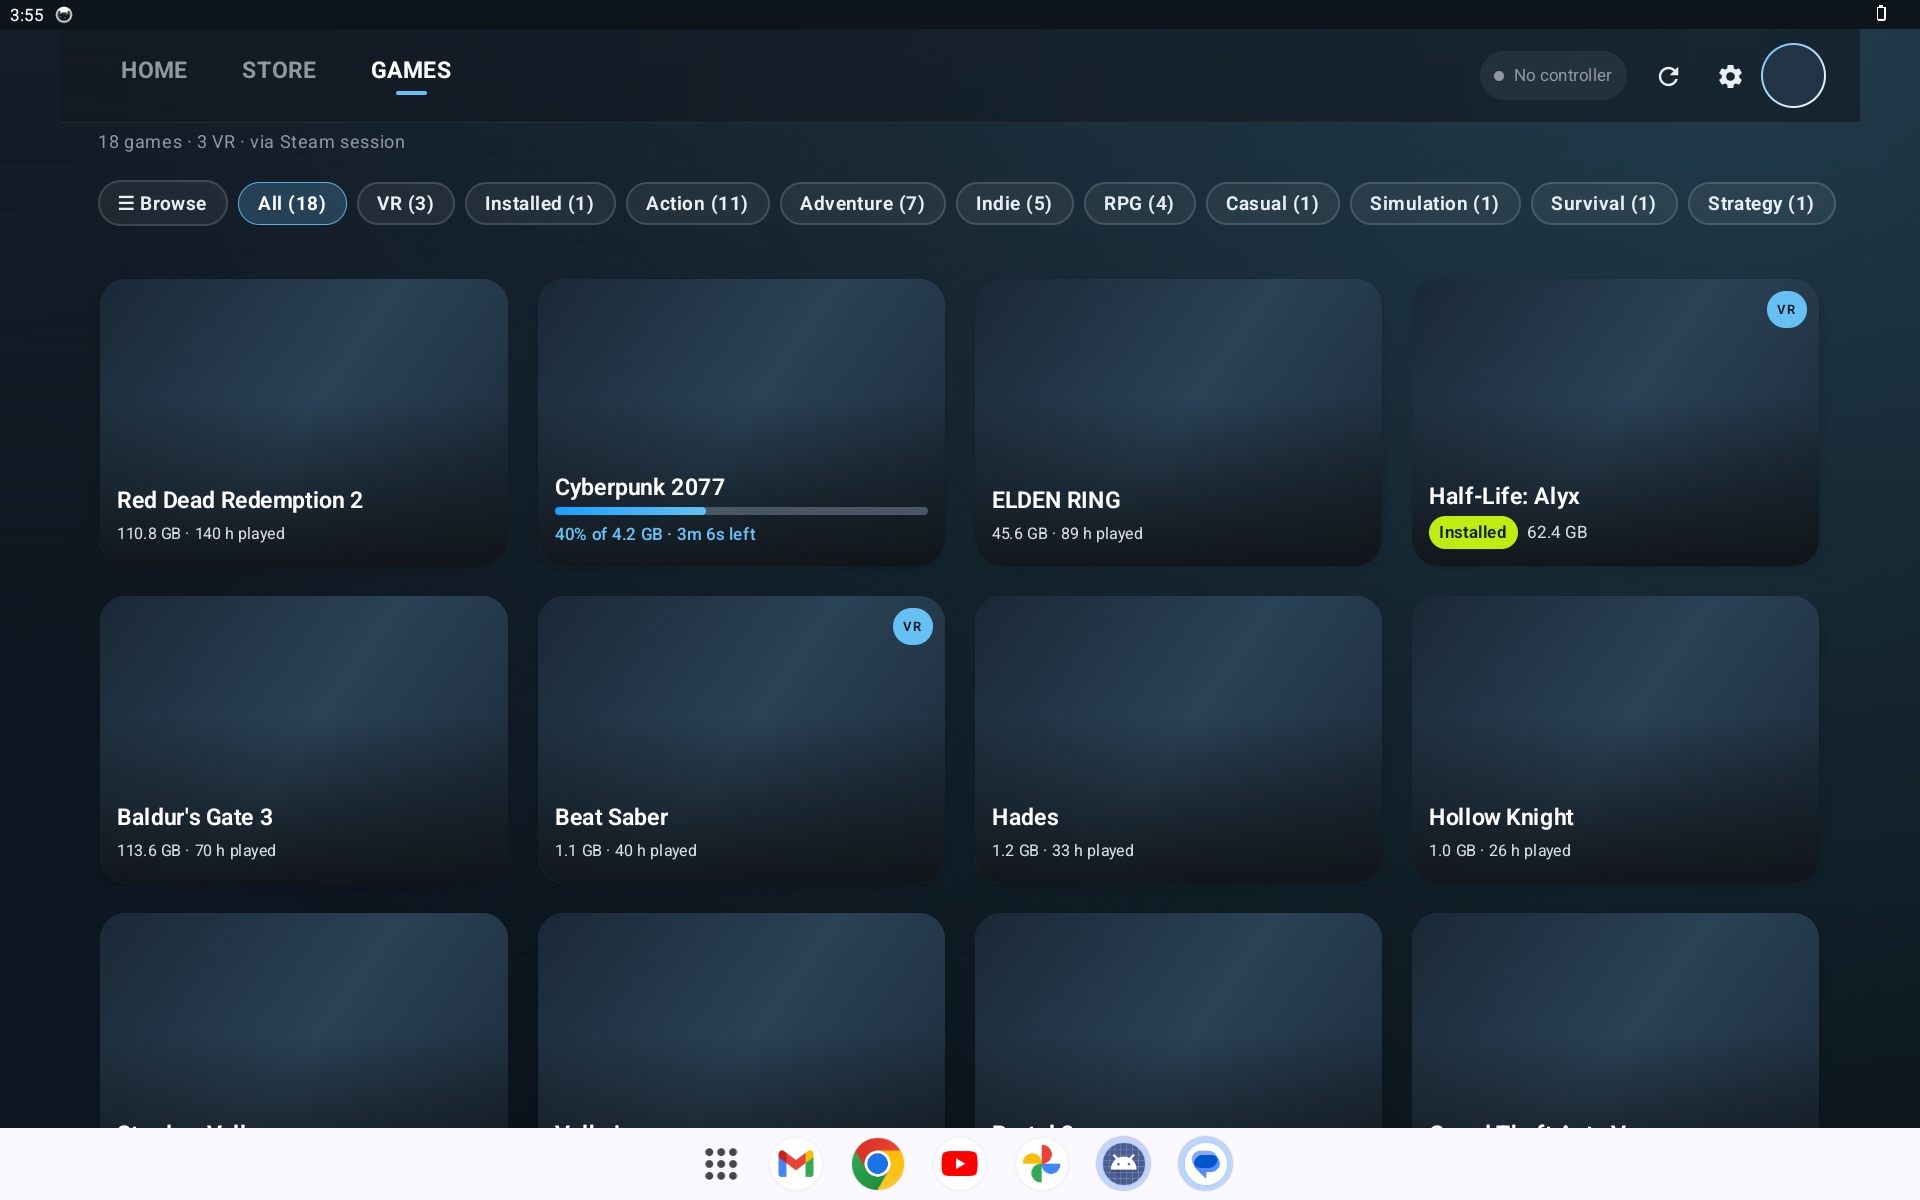
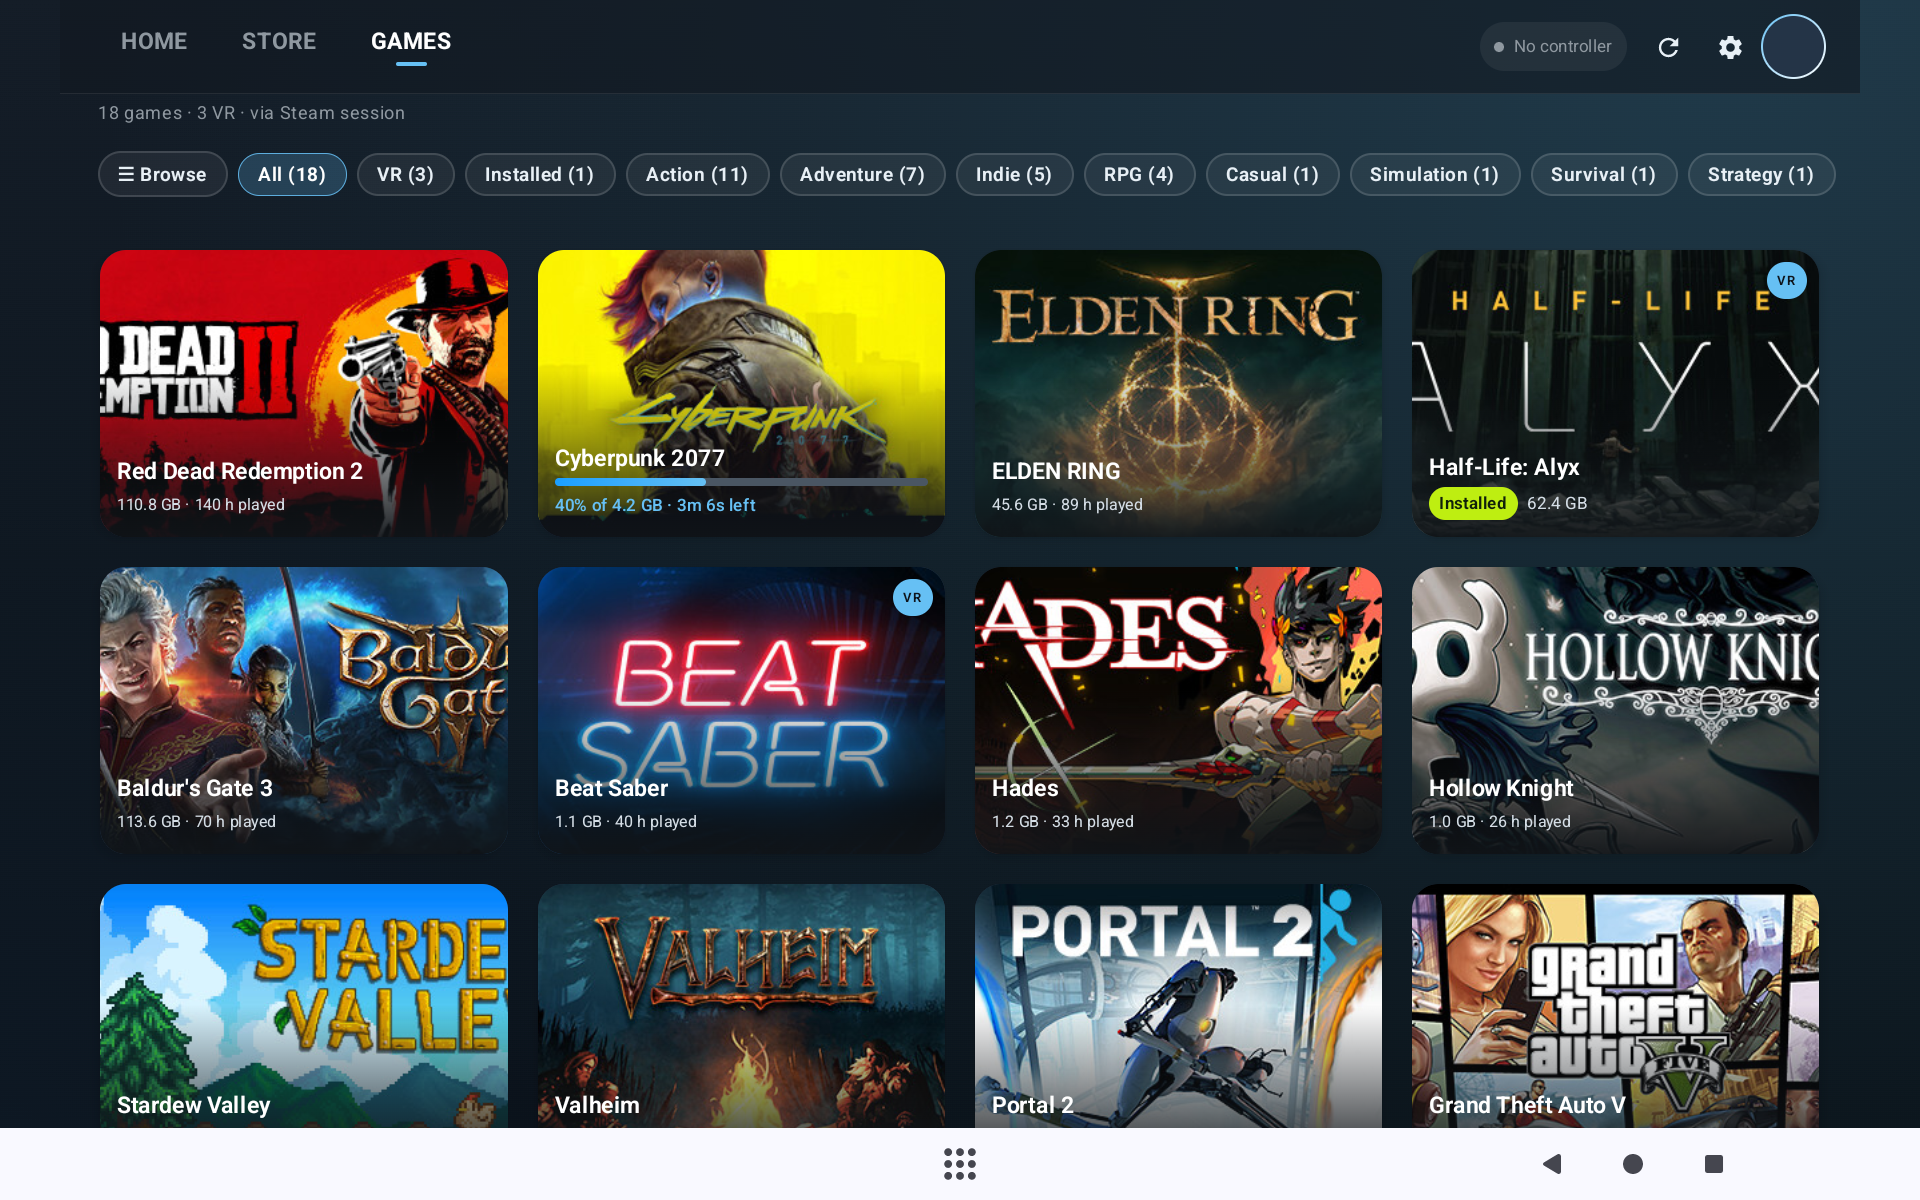
Show real cover art in the v0.13.8 emulator screenshots
The debug demo now copies bundled Steam headers into the cache and draws them immediately, and deep-link extras open each screen on a fresh launch. Replaces the placeholder captures with Home, Games, flipped cards, Browse, Filters, Store, Runtime, login, and the game-screen keyboard.

diff --git a/app/src/debug/java/com/toer15/queststeam/DemoShots.kt b/app/src/debug/java/com/toer15/queststeam/DemoShots.kt
@@ -7,6 +7,8 @@ import com.toer15.queststeam.download.GameState
 import com.toer15.queststeam.steam.OwnedGame
 import com.toer15.queststeam.steam.PlayerSummary
 import com.toer15.queststeam.steam.SessionStore
+import com.toer15.queststeam.store.StoreItem
+import com.toer15.queststeam.store.StorePrice
 import org.json.JSONArray
 import org.json.JSONObject
 import java.io.File
@@ -14,15 +16,31 @@ import java.io.File
 /**
  * Debug-only sample library so the real UI can be captured without a Steam account.
  * Armed only by the `demo` intent extra. Release builds use the stub that never arms.
+ *
+ * Cover art is copied out of debug assets into the app cache on prepare. The image loader
+ * reads those files, so a capture does not wait on the Steam CDN.
  */
 object DemoShots {
     var armed: Boolean = false
+        private set
+
+    /** Deep link: home, filters, games, browse, card, store. */
+    var screen: String = ""
+        private set
+
+    /** App id whose card opens already flipped, for the card screen. */
+    var flipAppId: Int = 0
+        private set
 
     private const val AVATAR = "https://avatars.steamstatic.com/fef49e7fa7e1997310d705b2a6158ff8dc1cdfeb_full.jpg"
+    private var artDir: File? = null
 
     fun prepare(ctx: Context, intent: Intent): Boolean {
         armed = intent.getBooleanExtra("demo", false)
         if (!armed) return false
+        screen = intent.getStringExtra("screen").orEmpty().lowercase()
+        flipAppId = intent.getIntExtra("flip", 0)
+        unpackArt(ctx)
         SessionStore(ctx).steamId = "76561197960287930"
         val games = sample()
         val a = JSONArray()
@@ -32,10 +50,78 @@ object DemoShots {
         File(ctx.filesDir, "library.json").writeText(a.toString())
         // One game is really installed on disk so the Installed label comes from the download manager.
         File(DownloadManager.get(ctx).dirFor(546560), ".qss-installed").apply { parentFile?.mkdirs(); writeText("1") }
+        File(ctx.cacheDir, "demo-launch.txt").writeText("screen=$screen flip=$flipAppId")
         return true
     }
 
-    fun profile() = PlayerSummary("76561197960287930", "Player", AVATAR, "https://steamcommunity.com/profiles/76561197960287930")
+    /** Local header the image loader should use, or null when this id was not bundled. */
+    fun artFile(appId: Int): File? {
+        if (!armed) return null
+        val f = artDir?.let { File(it, "$appId.jpg") } ?: return null
+        return f.takeIf { it.isFile && it.length() > 512 }
+    }
+
+    fun profile(): PlayerSummary {
+        val avatar = artDir?.let { File(it, "avatar.jpg") }?.takeIf { it.isFile && it.length() > 200 }?.toURI()?.toString() ?: AVATAR
+        return PlayerSummary("76561197960287930", "Player", avatar, "https://steamcommunity.com/profiles/76561197960287930")
+    }
+
+    fun storeItems(): List<StoreItem> = listOf(
+        StoreItem(730, "Counter-Strike 2"),
+        StoreItem(570, "Dota 2"),
+        StoreItem(1091500, "Cyberpunk 2077"),
+        StoreItem(1245620, "ELDEN RING"),
+        StoreItem(1174180, "Red Dead Redemption 2"),
+        StoreItem(1086940, "Baldur's Gate 3"),
+        StoreItem(292030, "The Witcher 3: Wild Hunt"),
+        StoreItem(271590, "Grand Theft Auto V"),
+        StoreItem(546560, "Half-Life: Alyx"),
+        StoreItem(620, "Portal 2"),
+        StoreItem(1145360, "Hades"),
+        StoreItem(892970, "Valheim"),
+        StoreItem(275850, "No Man's Sky"),
+        StoreItem(548430, "Deep Rock Galactic"),
+        StoreItem(814380, "Sekiro: Shadows Die Twice"),
+        StoreItem(1599340, "Lost Ark"),
+        StoreItem(413150, "Stardew Valley"),
+        StoreItem(620980, "Beat Saber"),
+        StoreItem(629730, "Blade & Sorcery"),
+        StoreItem(367520, "Hollow Knight"),
+    )
+
+    fun storePrices(): Map<Int, StorePrice> = mapOf(
+        730 to StorePrice("Free", free = true),
+        570 to StorePrice("Free", free = true),
+        1091500 to StorePrice("$29.99", "$59.99", 50),
+        1245620 to StorePrice("$41.99", "$59.99", 30),
+        1174180 to StorePrice("$23.99", "$59.99", 60),
+        1086940 to StorePrice("$59.99"),
+        292030 to StorePrice("$9.99", "$39.99", 75),
+        271590 to StorePrice("$14.99", "$29.99", 50),
+        546560 to StorePrice("$39.99"),
+        620 to StorePrice("$1.99", "$9.99", 80),
+        1145360 to StorePrice("$12.49", "$24.99", 50),
+        892970 to StorePrice("$19.99"),
+        275850 to StorePrice("$29.99", "$59.99", 50),
+        548430 to StorePrice("$14.99", "$29.99", 50),
+        814380 to StorePrice("$59.99"),
+        1599340 to StorePrice("Free", free = true),
+        413150 to StorePrice("$14.99"),
+        620980 to StorePrice("$29.99"),
+        629730 to StorePrice("$19.99"),
+        367520 to StorePrice("$7.49", "$14.99", 50),
+    )
+
+    private fun unpackArt(ctx: Context) {
+        val dir = File(ctx.cacheDir, "demo-art").apply { mkdirs() }
+        artDir = dir
+        val names = ctx.assets.list("demo-art").orEmpty()
+        for (name in names) {
+            val out = File(dir, name)
+            if (out.isFile && out.length() > 512) continue
+            ctx.assets.open("demo-art/$name").use { input -> out.outputStream().use { input.copyTo(it) } }
+        }
+    }
 
     fun applyCardStates(downloads: DownloadManager) {
         downloads.demoState(1091500, GameState.Downloading(1_820_000_000L, 4_500_000_000L, 186, "Steam", null))

diff --git a/app/src/main/java/com/toer15/queststeam/MainActivity.kt b/app/src/main/java/com/toer15/queststeam/MainActivity.kt
@@ -171,7 +171,14 @@ internal fun LauncherApp(
     val ui = LocalDeviceUi.current
     val updateState by updates.ui.collectAsState()
     val ctx = androidx.compose.ui.platform.LocalContext.current
-    var tab by rememberSaveable { mutableStateOf(Tab.Home) }
+    val demoScreen = remember { DemoShots.screen }
+    fun tabFor(screen: String) = when (screen) {
+        "games", "browse", "card" -> Tab.Games
+        "store" -> Tab.Store
+        else -> Tab.Home
+    }
+    var tab by rememberSaveable { mutableStateOf(tabFor(demoScreen)) }
+    // A restored task can bring back the previous tab. The demo deep link wins.
     val games by vm.games.collectAsState()
     val states by vm.downloads.states.collectAsState()
     val profile by vm.profile.collectAsState()
@@ -182,13 +189,19 @@ internal fun LauncherApp(
     var showKey by remember { mutableStateOf(false) }
     var lastCrash by remember { mutableStateOf(CrashGuard.lastCrash()) }
     var homeFilters by remember { mutableStateOf(HomeFilters()) }
-    var filtersOpen by remember { mutableStateOf(false) }
+    var filtersOpen by remember { mutableStateOf(demoScreen == "filters") }
     var playFor by remember { mutableStateOf<OwnedGame?>(null) }
     var storeItem by remember { mutableStateOf<StoreItem?>(null) }
     // Back from Steam's checkout: sync so a game just bought shows up in the library.
     val storeLauncher = rememberLauncherForActivityResult(ActivityResultContracts.StartActivityForResult()) { vm.sync() }
     val homeTabFocus = remember { FocusRequester() }
 
+    LaunchedEffect(demoScreen) {
+        if (demoScreen.isNotEmpty()) {
+            tab = tabFor(demoScreen)
+            if (demoScreen == "filters") filtersOpen = true
+        }
+    }
     // Controller buttons (LB/RB tabs, B back, Y filters, X sync, Start updates).
     LaunchedEffect(Unit) {
         PadNav.actions.collect { a ->
@@ -288,7 +301,11 @@ internal fun LauncherApp(
                         onCheckUpdates = updates::check, filters = homeFilters, onOpenFilters = { filtersOpen = true },
                     )
                     Tab.Store -> StoreScreen(owned = remember(games) { games.mapTo(HashSet()) { it.appId } }, onOpenGame = { storeItem = it })
-                    Tab.Games -> GamesScreen(games, ::stateOf, ::actionsFor)
+                    Tab.Games -> GamesScreen(
+                        games, ::stateOf, ::actionsFor,
+                        startBrowse = demoScreen == "browse",
+                        flipId = if (demoScreen == "card") DemoShots.flipAppId else 0,
+                    )
                 }
             }
         }
@@ -581,12 +598,18 @@ private fun Shelf(title: String, list: List<OwnedGame>, stateOf: (OwnedGame) -> 
 
 @OptIn(ExperimentalFoundationApi::class)
 @Composable
-private fun GamesScreen(games: List<OwnedGame>, stateOf: (OwnedGame) -> GameState, actionsFor: (OwnedGame) -> CardActions) {
+private fun GamesScreen(
+    games: List<OwnedGame>,
+    stateOf: (OwnedGame) -> GameState,
+    actionsFor: (OwnedGame) -> CardActions,
+    startBrowse: Boolean = false,
+    flipId: Int = 0,
+) {
     val ui = LocalDeviceUi.current
     var category by rememberSaveable { mutableStateOf(Categories.ALL) }
     var query by rememberSaveable { mutableStateOf("") }
     var letters by rememberSaveable { mutableStateOf("") } // "" = all, "A" or "A-F"
-    var popup by remember { mutableStateOf(false) }
+    var popup by remember { mutableStateOf(startBrowse) }
     // Only the installed set matters for filtering, not every download-progress tick.
     val installed = games.filter { stateOf(it) is GameState.Installed }.mapTo(HashSet()) { it.appId }
     val genres = remember(games) { games.flatMap { it.genres }.groupingBy { it }.eachCount().entries.sortedByDescending { it.value }.map { it.key } }
@@ -627,7 +650,9 @@ private fun GamesScreen(games: List<OwnedGame>, stateOf: (OwnedGame) -> GameStat
             horizontalArrangement = Arrangement.spacedBy(ui.cardGap),
             verticalArrangement = Arrangement.spacedBy(ui.cardGap),
         ) {
-            items(shown, key = { it.appId }) { g -> GameCard(g, stateOf(g), actionsFor(g), Modifier.padding(2.dp)) }
+            items(shown, key = { it.appId }) { g ->
+                GameCard(g, stateOf(g), actionsFor(g), Modifier.padding(2.dp), startFlipped = flipId != 0 && g.appId == flipId)
+            }
         }
     }
     if (popup) CategoryPopup(

diff --git a/app/src/main/java/com/toer15/queststeam/ui/GameArt.kt b/app/src/main/java/com/toer15/queststeam/ui/GameArt.kt
@@ -1,6 +1,8 @@
 package com.toer15.queststeam.ui
 
 import android.content.Context
+import android.graphics.BitmapFactory
+import androidx.compose.foundation.Image
 import androidx.compose.foundation.background
 import androidx.compose.foundation.layout.Box
 import androidx.compose.foundation.layout.fillMaxSize
@@ -17,6 +19,7 @@ import androidx.compose.ui.Alignment
 import androidx.compose.ui.Modifier
 import androidx.compose.ui.graphics.Brush
 import androidx.compose.ui.graphics.Color
+import androidx.compose.ui.graphics.asImageBitmap
 import androidx.compose.ui.layout.ContentScale
 import androidx.compose.ui.platform.LocalContext
 import androidx.compose.ui.text.font.FontWeight
@@ -24,6 +27,7 @@ import androidx.compose.ui.text.style.TextAlign
 import androidx.compose.ui.unit.dp
 import androidx.compose.ui.unit.sp
 import coil.compose.AsyncImage
+import com.toer15.queststeam.DemoShots
 import kotlinx.coroutines.Dispatchers
 import kotlinx.coroutines.withContext
 import org.json.JSONObject
@@ -62,16 +66,27 @@ object SteamImages {
 @Composable
 fun GameArt(appId: Int, name: String, modifier: Modifier = Modifier, contentScale: ContentScale = ContentScale.Crop, showNameIfMissing: Boolean = false) {
     val ctx = LocalContext.current
+    // Debug demo copies headers into the cache before the first frame. Decode that file here so
+    // the cover is on screen without waiting for Coil or the Steam CDN.
+    val bundled = remember(appId) {
+        DemoShots.artFile(appId)?.let { file ->
+            BitmapFactory.decodeFile(file.absolutePath)?.asImageBitmap()
+        }
+    }
     val urls = remember(appId) { SteamImages.candidates(appId) }
     var index by remember(appId) { mutableIntStateOf(0) }
     var storeUrl by remember(appId) { mutableStateOf<String?>(null) }
     var storeTried by remember(appId) { mutableStateOf(false) }
     var failed by remember(appId) { mutableStateOf(false) }
     val exhausted = index >= urls.size
-    LaunchedEffect(appId, exhausted) {
-        if (exhausted && !storeTried) { storeUrl = SteamImages.fromStore(ctx, appId); storeTried = true; if (storeUrl == null) failed = true }
+    LaunchedEffect(appId, exhausted, bundled) {
+        if (bundled == null && exhausted && !storeTried) { storeUrl = SteamImages.fromStore(ctx, appId); storeTried = true; if (storeUrl == null) failed = true }
     }
     Box(modifier.background(Brush.linearGradient(listOf(Color(0xFF1A2836), Color(0xFF2A4256), Color(0xFF1A2836))))) {
+        if (bundled != null) {
+            Image(bundled, contentDescription = name, contentScale = contentScale, modifier = Modifier.fillMaxSize())
+            return@Box
+        }
         val model = if (!exhausted) urls[index] else storeUrl
         if (model != null && !failed) AsyncImage(
             model = model,

diff --git a/app/src/main/java/com/toer15/queststeam/ui/GameCard.kt b/app/src/main/java/com/toer15/queststeam/ui/GameCard.kt
@@ -1,5 +1,6 @@
 package com.toer15.queststeam.ui
 
+import androidx.compose.animation.core.Animatable
 import androidx.compose.animation.core.animateFloatAsState
 import androidx.compose.animation.core.tween
 import androidx.compose.foundation.background
@@ -68,9 +69,18 @@ private val CardShape = RoundedCornerShape(22.dp)
 
 /** Card that flips in 3D on tap: front = art, back = actions. */
 @Composable
-fun GameCard(game: OwnedGame, state: GameState, actions: CardActions, modifier: Modifier = Modifier) {
-    var flipped by rememberSaveable(game.appId) { mutableStateOf(false) }
-    val rotation by animateFloatAsState(if (flipped) 180f else 0f, tween(480), label = "flip")
+fun GameCard(game: OwnedGame, state: GameState, actions: CardActions, modifier: Modifier = Modifier, startFlipped: Boolean = false) {
+    // A restored grid would otherwise put a deep-linked card back on its front. The demo path
+    // keeps its own state so the back (Download / Play / Uninstall) is showing on the first frame.
+    val savedFlip = rememberSaveable(game.appId) { mutableStateOf(false) }
+    val demoFlip = remember(game.appId) { mutableStateOf(startFlipped) }
+    var flipped by if (startFlipped) demoFlip else savedFlip
+    val rotationAnim = remember(game.appId, startFlipped) { Animatable(if (startFlipped) 180f else 0f) }
+    LaunchedEffect(flipped) {
+        val target = if (flipped) 180f else 0f
+        if (kotlin.math.abs(rotationAnim.value - target) > 0.5f) rotationAnim.animateTo(target, tween(480))
+    }
+    val rotation = rotationAnim.value
     val interaction = remember { MutableInteractionSource() }
     val pressed by interaction.collectIsPressedAsState()
     val hovered by interaction.collectIsHoveredAsState()
@@ -83,7 +93,8 @@ fun GameCard(game: OwnedGame, state: GameState, actions: CardActions, modifier: 
     val cardFocus = remember { FocusRequester() }
     DisposableEffect(flipped) {
         val unflip: () -> Unit = { flipped = false; if (padFlip) refocusCard = true }
-        if (flipped) PadNav.pushBack(unflip)
+        // A deep-linked card stays on its back; a stray Back must not turn it over before a capture.
+        if (flipped && !startFlipped) PadNav.pushBack(unflip)
         onDispose { PadNav.removeBack(unflip) }
     }
     LaunchedEffect(refocusCard) {

diff --git a/app/src/main/java/com/toer15/queststeam/store/StoreScreen.kt b/app/src/main/java/com/toer15/queststeam/store/StoreScreen.kt
@@ -63,6 +63,7 @@ import androidx.compose.ui.unit.sp
 import androidx.lifecycle.AndroidViewModel
 import androidx.lifecycle.viewModelScope
 import androidx.lifecycle.viewmodel.compose.viewModel
+import com.toer15.queststeam.DemoShots
 import com.toer15.queststeam.ui.GameArt
 import com.toer15.queststeam.ui.LocalDeviceUi
 import com.toer15.queststeam.ui.SteamColors
@@ -92,7 +93,13 @@ class StoreViewModel(app: Application) : AndroidViewModel(app) {
     private var searchJob: Job? = null
     private var endReached = false
 
-    init { reload() }
+    init {
+        if (DemoShots.armed) {
+            _items.value = DemoShots.storeItems()
+            _prices.value = DemoShots.storePrices()
+            endReached = true
+        } else reload()
+    }
 
     fun select(s: StoreApi.Section) { _section.value = s; _term.value = ""; reload() }
 
@@ -104,6 +111,7 @@ class StoreViewModel(app: Application) : AndroidViewModel(app) {
     }
 
     fun reload() {
+        if (DemoShots.armed) return
         job?.cancel()
         endReached = false
         _items.value = emptyList()
@@ -111,6 +119,7 @@ class StoreViewModel(app: Application) : AndroidViewModel(app) {
     }
 
     fun loadMore() {
+        if (DemoShots.armed) return
         if (_loading.value && job?.isActive == true) return
         if (endReached) return
         val start = _items.value.size

diff --git a/app/src/release/java/com/toer15/queststeam/DemoShots.kt b/app/src/release/java/com/toer15/queststeam/DemoShots.kt
@@ -4,11 +4,19 @@ import android.content.Context
 import android.content.Intent
 import com.toer15.queststeam.download.DownloadManager
 import com.toer15.queststeam.steam.PlayerSummary
+import com.toer15.queststeam.store.StoreItem
+import com.toer15.queststeam.store.StorePrice
+import java.io.File
 
 /** Release builds never enter demo mode. */
 object DemoShots {
     const val armed: Boolean = false
+    const val screen: String = ""
+    const val flipAppId: Int = 0
     fun prepare(ctx: Context, intent: Intent) = false
     fun profile(): PlayerSummary? = null
     fun applyCardStates(downloads: DownloadManager) = Unit
+    fun artFile(appId: Int): File? = null
+    fun storeItems(): List<StoreItem> = emptyList()
+    fun storePrices(): Map<Int, StorePrice> = emptyMap()
 }

diff --git a/README.md b/README.md
@@ -13,13 +13,27 @@ Built by GitHub Actions ([Releases](https://github.com/toer15/quest-standalone-s
 
 ## Screenshots
 
-Emulator captures of the v0.13.8 Quest build at the panel size the VR view uses (1920×1200, 192 dpi). The library is the real UI fed by a debug-only sample list so Steam's CDN art can load without an account. Release builds ignore that mode.
+Emulator captures of the v0.13.8 Quest build at the panel size the VR view uses (1920×1200, 192 dpi). A debug-only sample library feeds the real UI. That demo copies bundled Steam headers into the app cache and the art loader draws those files, so the covers are on screen even when the emulator cannot reach the Steam CDN. Release builds never arm the demo and do not ship the images.
 
-![Home, with the hero and the installed and downloading shelves](docs/screenshots/home.png)
+![Home, with real cover art on the hero and the shelves](docs/screenshots/home.png)
 
-![Home filters: VR, installed, played, sort, and genres](docs/screenshots/home-filters.png)
+![Games grid with cover art](docs/screenshots/games-grid.png)
 
-![Games grid, category pills, and a download in progress](docs/screenshots/games-grid.png)
+![Flipped card: Download and Import from folder](docs/screenshots/card-download.png)
+
+![Flipped card: Play Game and Uninstall](docs/screenshots/card-play.png)
+
+![Browse: search and A–Z](docs/screenshots/browse.png)
+
+![Home filters, with the library still visible behind the panel](docs/screenshots/home-filters.png)
+
+![Store, with cover art and prices](docs/screenshots/store.png)
+
+![Runtime and settings](docs/screenshots/runtime.png)
+
+![Sign in to Steam](docs/screenshots/login.png)
+
+![Game screen chrome, with Leave game and Keyboard](docs/screenshots/game-keyboard.png)
 
 ## v0.12.0: the Quest's own GPU driver (Vortek)
 
